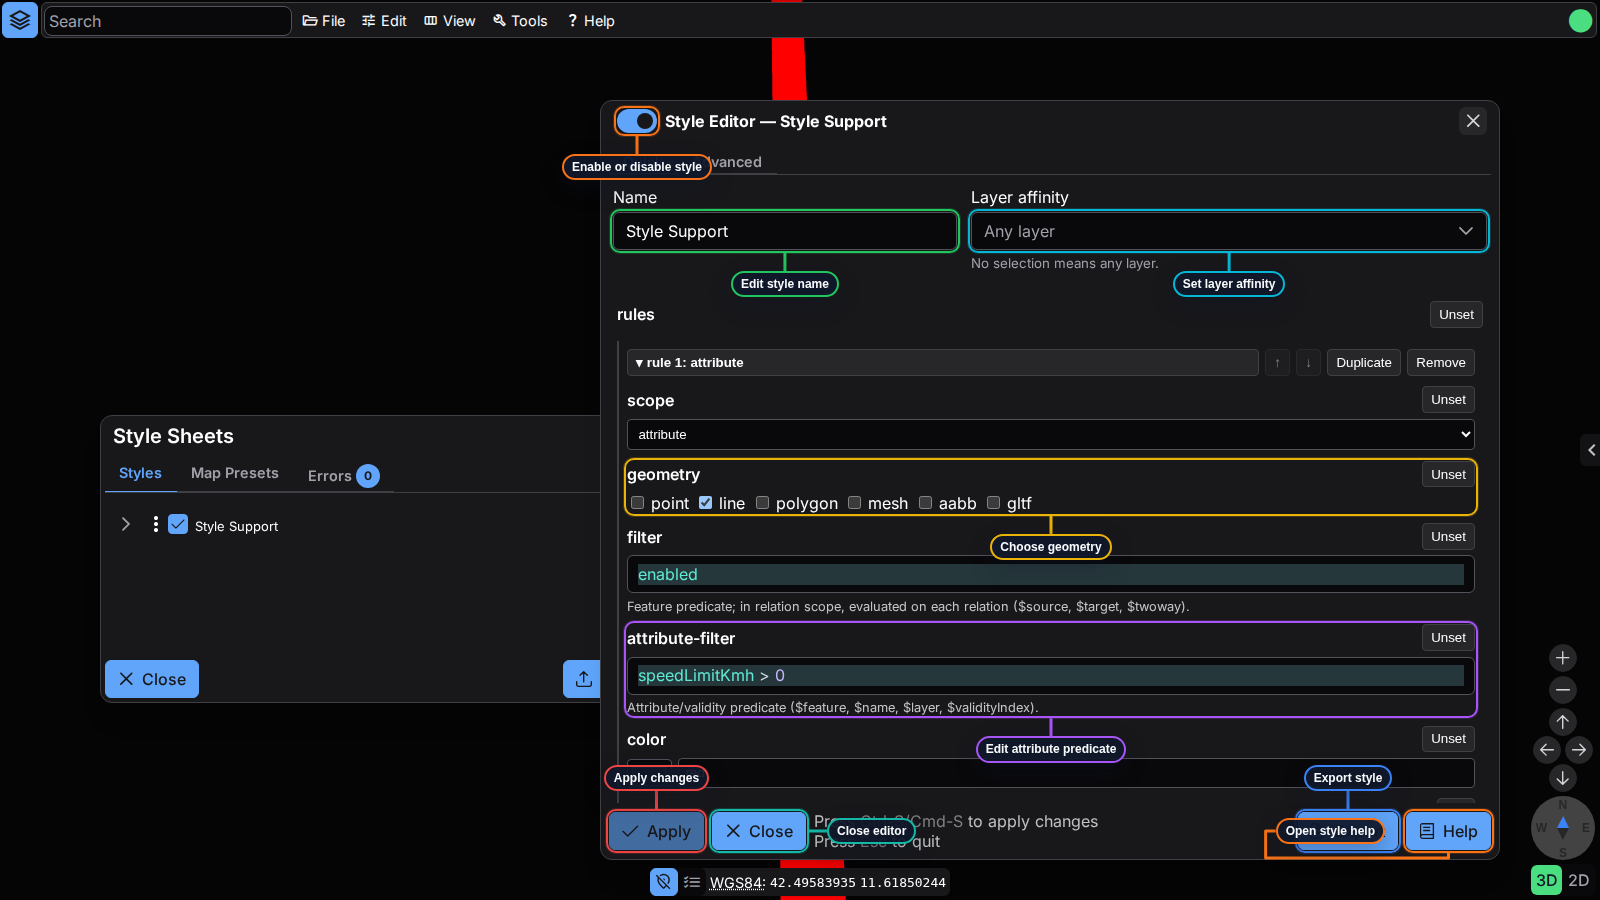
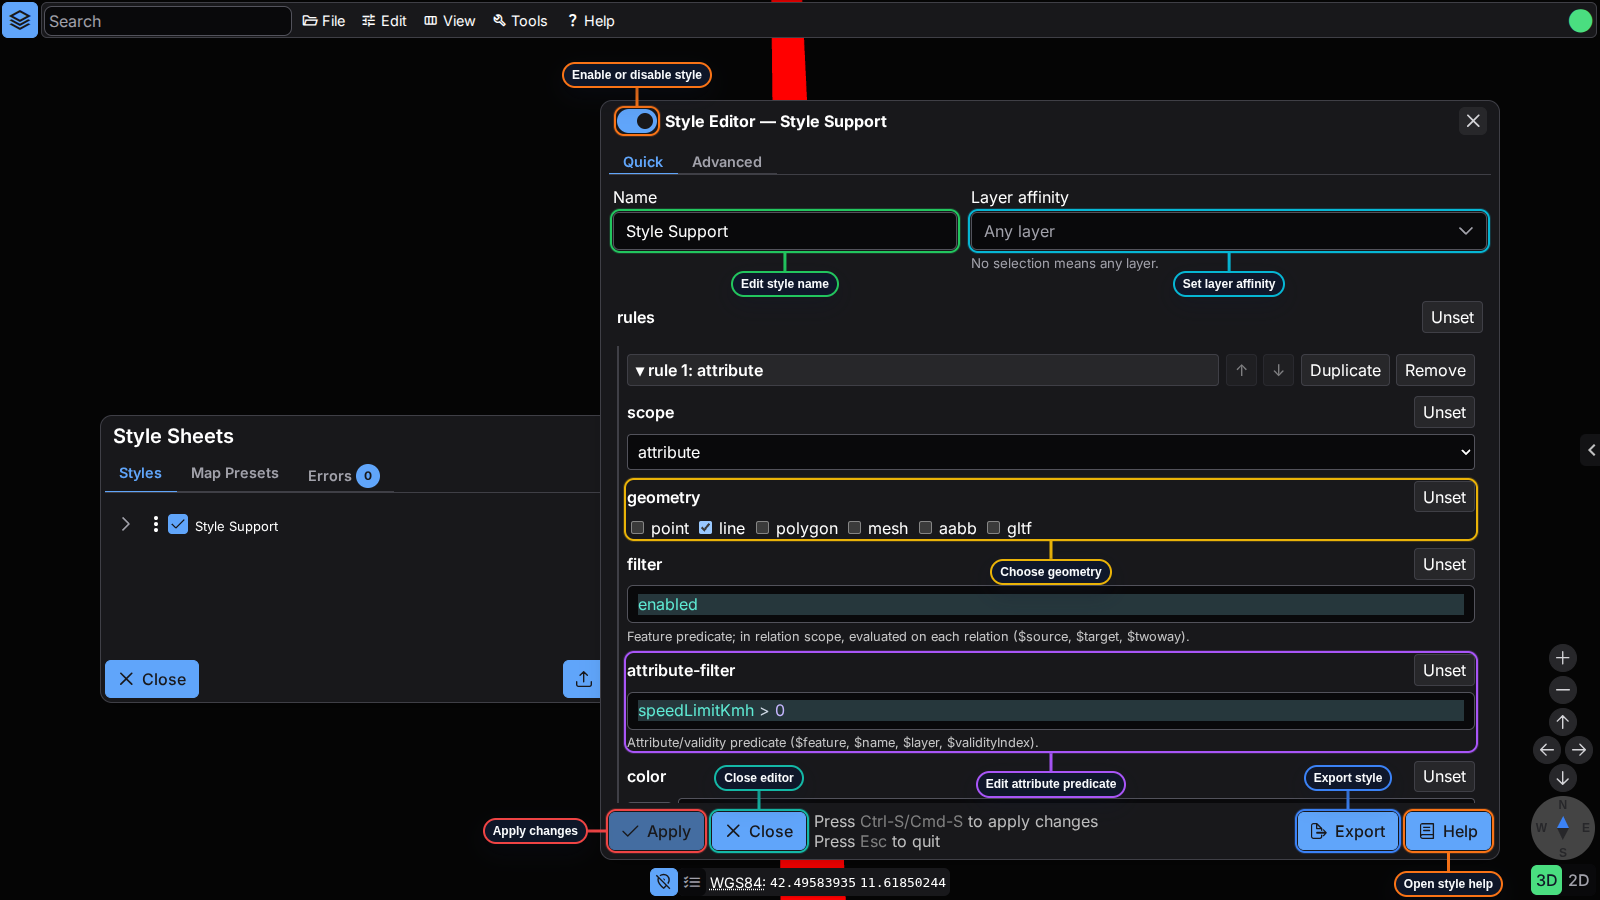
Use the application font in native style editor controls

diff --git a/tests/playwright/snap-tests/style-component.snap.spec.ts b/tests/playwright/snap-tests/style-component.snap.spec.ts
@@ -51,10 +51,13 @@ test.describe('Snapshot – style component', () => {
         });
 
         await page.mouse.move(0, 0);
+        // Keep header and footer callouts clear of the neighboring controls.
+        // The form's inherited app font can leave less spare vertical space.
         await captureDocsScreenshotWithLabels(page, 'docs/screenshots/style-component-editor-controls.png', [
             {
                 locator: editorDialog.getByTestId('style-editor-enabled'),
-                label: 'Enable or disable style'
+                label: 'Enable or disable style',
+                placement: 'top'
             },
             {
                 locator: editorDialog.getByTestId('style-editor-quick-name'),
@@ -74,19 +77,23 @@ test.describe('Snapshot – style component', () => {
             },
             {
                 locator: editorDialog.getByTestId('style-editor-apply-button'),
-                label: 'Apply changes'
+                label: 'Apply changes',
+                placement: 'left'
             },
             {
                 locator: editorDialog.getByTestId('style-editor-close-button'),
-                label: 'Close editor'
+                label: 'Close editor',
+                placement: 'top'
             },
             {
                 locator: editorDialog.getByTestId('style-editor-export-button'),
-                label: 'Export style'
+                label: 'Export style',
+                placement: 'top'
             },
             {
                 locator: editorDialog.getByTestId('style-editor-help-button'),
-                label: 'Open style help'
+                label: 'Open style help',
+                placement: 'bottom'
             }
         ]);
     });

diff --git a/app/mapstyle/style-form.scss b/app/mapstyle/style-form.scss
@@ -1,5 +1,10 @@
 :host { display: block; min-width: 0; }
 :host([hidden]) { display: none; }
+/* Native form controls should use the same app font as their labels. Desktop
+   theme defaults otherwise change their text metrics and the height of every row. */
+button, input, select, textarea {
+    font: inherit;
+}
 .style-form { padding: .5rem; }
 .style-form-body { border: 0; margin: 0; padding: 0; min-width: 0; }
 .style-form-field { display: grid; gap: .35rem; margin: .65rem 0; min-width: 0; }
